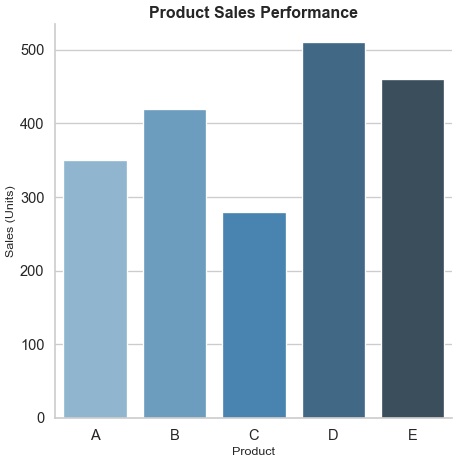
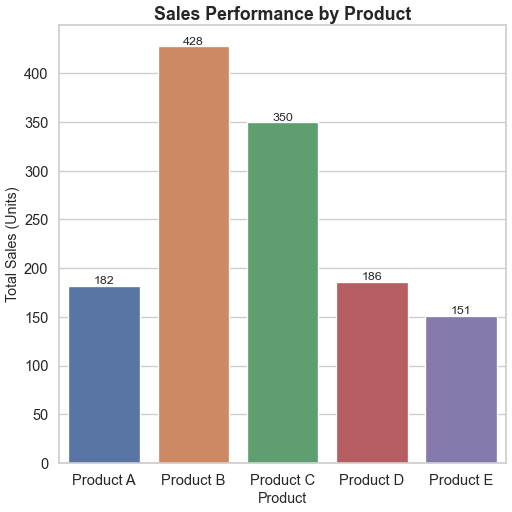
Add files via upload

diff --git a/chart.py b/chart.py
@@ -2,46 +2,48 @@
 import seaborn as sns
 import matplotlib.pyplot as plt
 import pandas as pd
+import numpy as np
 
-
-# Generate realistic synthetic data
-
-data = {
-    "Product": ["A", "B", "C", "D", "E"],
-    "Sales": [350, 420, 280, 510, 460]
-}
-df = pd.DataFrame(data)
-
-
-# Seaborn styling
-
+# Set professional style and context for presentation-ready visualization
 sns.set_style("whitegrid")
 sns.set_context("talk")
-palette = sns.color_palette("Blues_d", n_colors=len(df["Product"].unique()))
 
+# Generate synthetic realistic data for product performance insights
+np.random.seed(42)
+products = ["Product A", "Product B", "Product C", "Product D", "Product E"]
+sales = np.random.randint(80, 500, size=len(products))
+profit_margin = np.random.uniform(0.1, 0.4, size=len(products))
 
-# Create the barplot
+data = pd.DataFrame({
+    "Product": products,
+    "Sales": sales,
+    "Profit Margin": profit_margin
+})
 
-plt.figure(figsize=(8, 8))  # 8 inches x 8 inches → 512x512 px at dpi=64
-ax = sns.barplot(
-    data=df,
-    x="Product",
-    y="Sales",
-    hue="Product",           # ensure palette is applied
-    palette=palette,
-    legend=False             # remove redundant legend
+# Calculate profit as a business insight metric (optional)
+data["Profit"] = data["Sales"] * data["Profit Margin"]
+
+# Create a barplot visualizing Sales by Product with a professional color palette
+plt.figure(figsize=(9, 8.88), dpi=64)  
+
+barplot = sns.barplot(
+    x="Product", 
+    y="Sales", 
+    data=data, 
+    palette="deep"
 )
 
+# Customize titles and labels
+barplot.set_title("Sales Performance by Product", fontsize=20, weight='bold')
+barplot.set_xlabel("Product", fontsize=16)
+barplot.set_ylabel("Total Sales (Units)", fontsize=16)
 
-# Customize chart
+# Optionally annotate bars with sales values
+for p in barplot.patches:
+    height = p.get_height()
+    barplot.annotate(f'{int(height)}', (p.get_x() + p.get_width() / 2., height),
+                     ha='center', va='bottom', fontsize=14)
 
-ax.set_title("Product Sales Performance", fontsize=18, weight="bold")
-ax.set_xlabel("Product", fontsize=14)
-ax.set_ylabel("Sales (Units)", fontsize=14)
-
-sns.despine()
-
-# Save the chart
-
-plt.savefig("chart.png", dpi=64, bbox_inches="tight")
+# Save the figure with exact 512x512 pixels
+plt.savefig("chart.png", dpi=64, bbox_inches='tight')
 plt.close()
